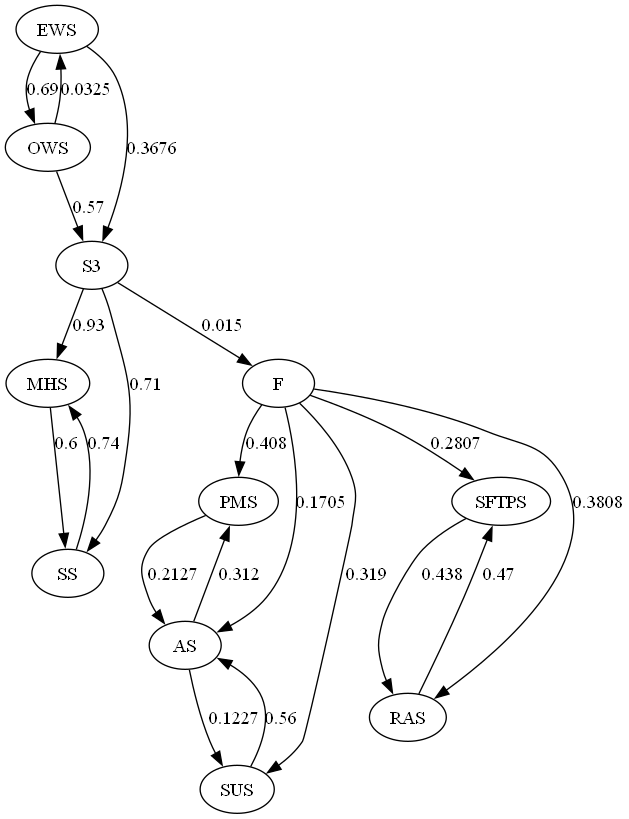
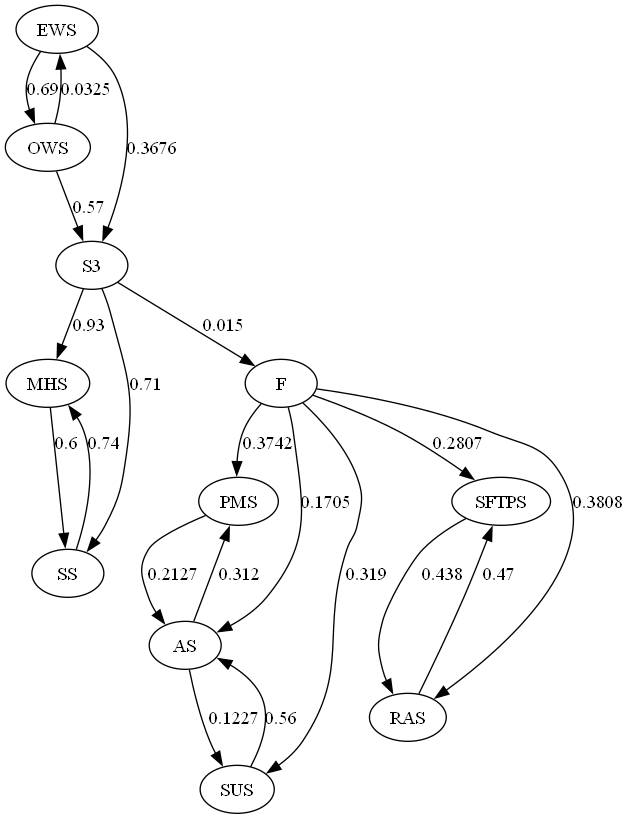
Update

diff --git a/main.py b/main.py
@@ -70,7 +70,8 @@ if __name__ == "__main__":
     
     # Caso in cui si raggiunge un rischio accettabile
     countermeasures = [[500, 0.25,'OWS','EWS','S'], 
-                       [100, 0.08,'EWS','S3','E'], 
+                       [100, 0.08,'EWS','S3','E'],
+                       [0, 0.38,'F','PMS','S'],
                        [356, 0.31,'S3','F','T'], 
                        [214, 0.15,'S3','SS','I'], 
                        [150, 0.21,'S3','SS','S'], 
